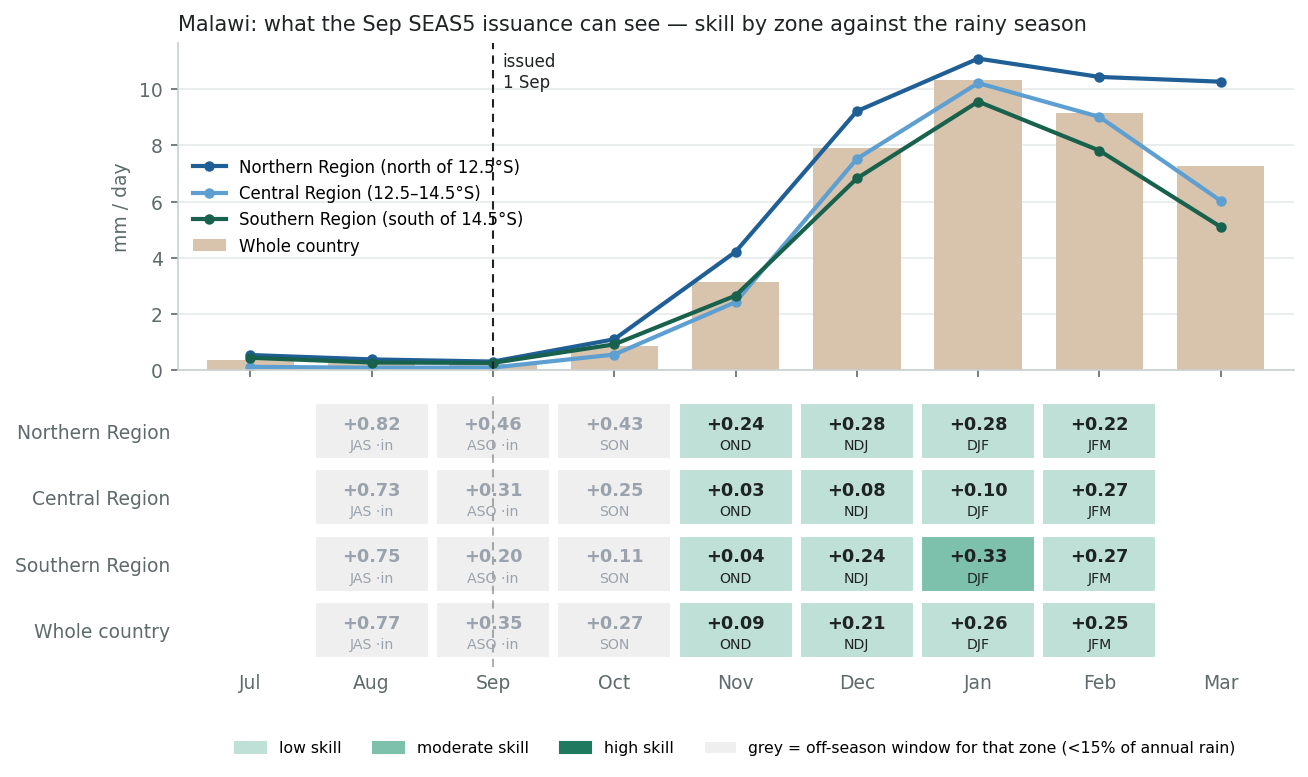
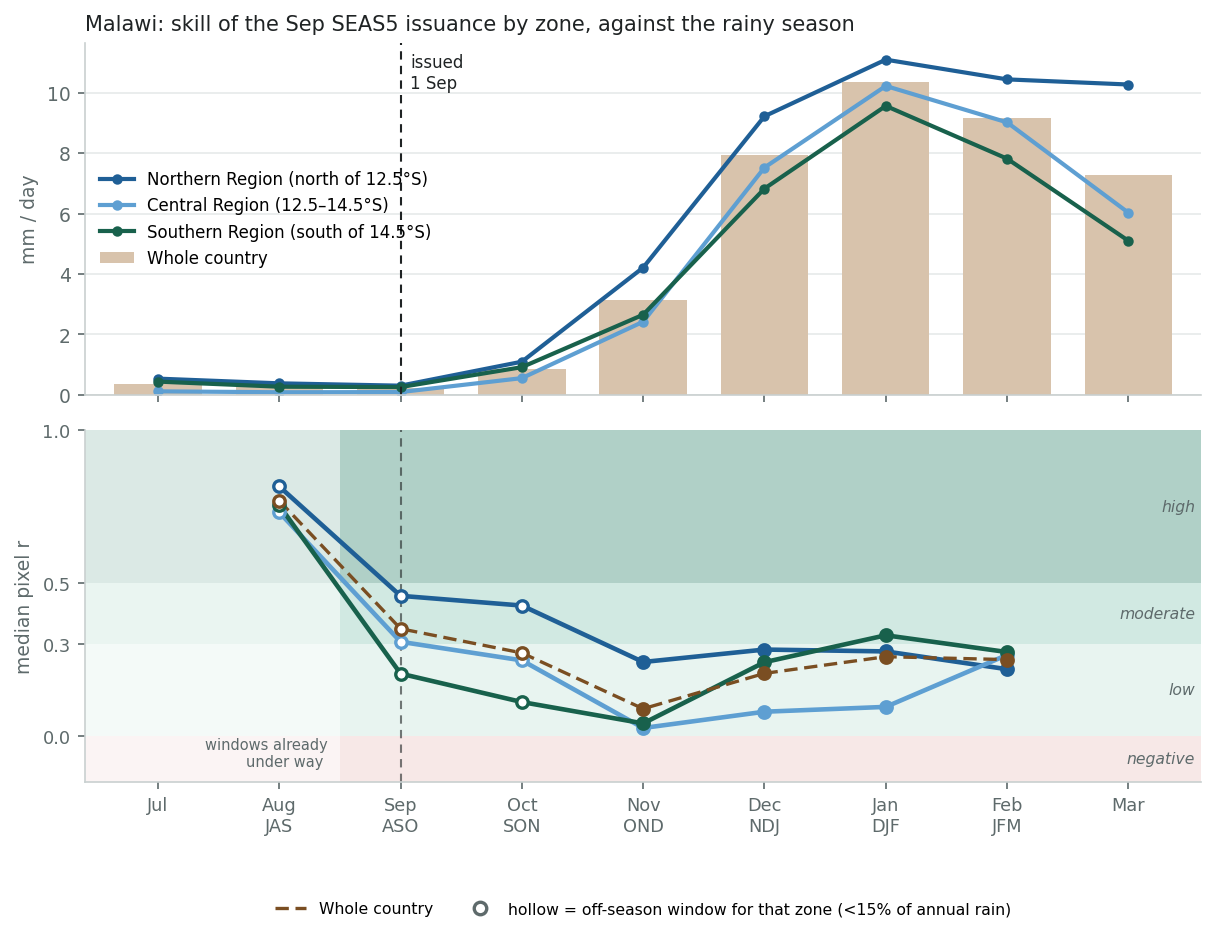
Deep dives: skill-by-zone panel as lines of median pixel r over the low/moderate/high bands

diff --git a/docs/enso/mwi/index.html b/docs/enso/mwi/index.html
@@ -131,11 +131,11 @@ a{color:var(--b6)}
 </tbody></table>
 <figure><img src="zone_history.png" alt="JFM rainfall history by zone and ENSO phase"><figcaption>Standardised JFM rainfall for each zone's area mean, coloured by concurrent ENSO phase; dashed line is the zone's own driest-third threshold. The three zones are latitude bands (north of 12.5°S, 12.5–14.5°S, south of 14.5°S), roughly the Northern, Central and Southern Regions. Note 2024: the wettest JFM on record in the north, the sixth-driest in the south.</figcaption></figure>
 <h2>Can SEAS5 forecast it? Skill of the Sep issuance, by zone</h2>
-<p>A teleconnection is only useful for anticipatory action if the seasonal forecast can carry it. The figure reads the seas5-skill app's per-pixel skill cube — the temporal Pearson r between the detrended ECMWF SEAS5 trimester forecast and detrended ERA5, per 0.4° pixel — for forecasts issued on 1 Sep, sampled at this page's cells and summarised as the median pixel r per zone. Bins are the app's (<em>low</em> &lt; 0.30 ≤ <em>moderate</em> &lt; 0.50 ≤ <em>high</em>). Each column is one three-month window the issuance covers, drawn on its middle month under the rainy-season climatology, so the reader sees which part of the season each forecast window reaches. Windows marked “·in” had already started at issuance, with the elapsed months observed rather than forecast.</p>
-<p>Read against the climatology, the September issuance is a weak instrument for Malawi's rains. The three windows that carry the season — NDJ, DJF and JFM — are all <em>low</em> skill in every zone (median pixel r 0.1–0.3, whole country 0.21–0.26), with one marginal exception: DJF in the Southern Region reaches <em>moderate</em> (0.33, 58% of cells). The Central Region is close to zero for OND through DJF. The in-season windows on the left (JAS, ASO) are high or moderate only because their months are already observed, and they are dry-season months anyway, so they are greyed out.</p>
+<p>A teleconnection is only useful for anticipatory action if the seasonal forecast can carry it. The figure reads the seas5-skill app's per-pixel skill cube — the temporal Pearson r between the detrended ECMWF SEAS5 trimester forecast and detrended ERA5, per 0.4° pixel — for forecasts issued on 1 Sep, sampled at this page's cells and summarised as the median pixel r per zone. Bins are the app's (<em>low</em> &lt; 0.30 ≤ <em>moderate</em> &lt; 0.50 ≤ <em>high</em>). Each point is one three-month window the issuance covers, drawn on its middle month under the rainy-season climatology, so the reader sees which part of the season each forecast window reaches and how much skill it has there.</p>
+<p>Read against the climatology, the September issuance is a weak instrument for Malawi's rains. The three windows that carry the season — NDJ, DJF and JFM — are all <em>low</em> skill in every zone (median pixel r 0.1–0.3, whole country 0.21–0.26), with one marginal exception: DJF in the Southern Region reaches <em>moderate</em> (0.33, 58% of cells). The Central Region is close to zero for OND through DJF. The windows on the left (JAS, ASO) score high or moderate only because their months are already observed, and they are dry-season months anyway, hence the hollow markers.</p>
 <p>The practical reading is that in September the ENSO state is the better signal for Malawi's centre and south, and the seasonal forecast adds little to it. Forecast-based action should wait for later issuances: from the same skill cube, the November issuance reaches moderate skill for FMA in the centre and south (median r 0.37–0.39, 78–90% of cells), which is also the window where the ENSO correlation peaks. The north's weaker ENSO link and low September skill argue for treating it separately, as the drought record already does.</p>
 
-<figure><img src="skill_issued.png" alt="SEAS5 skill of the Sep issuance by zone"><figcaption>Top: monthly rainfall climatology, whole country (bars) and zones (lines), from two months before the issuance to the end of the seven-month SEAS5 horizon. Bottom: median pixel skill of the Sep issuance for each trimester, per zone and for the whole country; grey cells are windows holding under 15% of that zone's annual rain (the app's off-season mask).</figcaption></figure>
+<figure><img src="skill_issued.png" alt="SEAS5 skill of the Sep issuance by zone"><figcaption>Top: monthly rainfall climatology, whole country (bars) and zones (lines), from two months before the issuance to the end of the seven-month SEAS5 horizon. Bottom: median pixel skill of the Sep issuance for each three-month window, plotted on the window's middle month, one line per zone and a dashed line for the whole country, over the app's low / moderate / high bands. Hollow markers are windows holding under 15% of that zone's annual rain (the app's off-season mask); windows left of the dashed vertical had already started at issuance, so part of them is observed rather than forecast.</figcaption></figure>
 <div style="overflow-x:auto"><table class="skill"><thead><tr><th>Zone</th><th class="num">Cells</th><th class="num">JAS<br><span class="small">in-season</span></th><th class="num">ASO<br><span class="small">in-season</span></th><th class="num">SON<br><span class="small">0-mo lead</span></th><th class="num">OND<br><span class="small">1-mo lead</span></th><th class="num">NDJ<br><span class="small">2-mo lead</span></th><th class="num">DJF<br><span class="small">3-mo lead</span></th><th class="num">JFM<br><span class="small">4-mo lead</span></th></tr></thead><tbody>
 <tr><td>Northern Region (north of 12.5°S)</td><td class="num">71</td><td class="num" style="white-space:nowrap">+0.82 <span class="chip" style="background:#1e795f;color:#ffffff;margin:0">high</span><br><span class="small">100% ≥ mod.</span></td><td class="num" style="white-space:nowrap">+0.46 <span class="chip" style="background:#7dc1ad;color:#1a1a1a;margin:0">moderate</span><br><span class="small">99% ≥ mod.</span></td><td class="num" style="white-space:nowrap">+0.43 <span class="chip" style="background:#7dc1ad;color:#1a1a1a;margin:0">moderate</span><br><span class="small">94% ≥ mod.</span></td><td class="num" style="white-space:nowrap">+0.24 <span class="chip" style="background:#bee0d6;color:#1a1a1a;margin:0">low</span><br><span class="small">38% ≥ mod.</span></td><td class="num" style="white-space:nowrap">+0.28 <span class="chip" style="background:#bee0d6;color:#1a1a1a;margin:0">low</span><br><span class="small">41% ≥ mod.</span></td><td class="num" style="white-space:nowrap">+0.28 <span class="chip" style="background:#bee0d6;color:#1a1a1a;margin:0">low</span><br><span class="small">41% ≥ mod.</span></td><td class="num" style="white-space:nowrap">+0.22 <span class="chip" style="background:#bee0d6;color:#1a1a1a;margin:0">low</span><br><span class="small">23% ≥ mod.</span></td></tr>
 <tr><td>Central Region (12.5–14.5°S)</td><td class="num">68</td><td class="num" style="white-space:nowrap">+0.73 <span class="chip" style="background:#1e795f;color:#ffffff;margin:0">high</span><br><span class="small">100% ≥ mod.</span></td><td class="num" style="white-space:nowrap">+0.31 <span class="chip" style="background:#7dc1ad;color:#1a1a1a;margin:0">moderate</span><br><span class="small">50% ≥ mod.</span></td><td class="num" style="white-space:nowrap">+0.25 <span class="chip" style="background:#bee0d6;color:#1a1a1a;margin:0">low</span><br><span class="small">26% ≥ mod.</span></td><td class="num" style="white-space:nowrap">+0.03 <span class="chip" style="background:#bee0d6;color:#1a1a1a;margin:0">low</span><br><span class="small">0% ≥ mod.</span></td><td class="num" style="white-space:nowrap">+0.08 <span class="chip" style="background:#bee0d6;color:#1a1a1a;margin:0">low</span><br><span class="small">0% ≥ mod.</span></td><td class="num" style="white-space:nowrap">+0.10 <span class="chip" style="background:#bee0d6;color:#1a1a1a;margin:0">low</span><br><span class="small">1% ≥ mod.</span></td><td class="num" style="white-space:nowrap">+0.27 <span class="chip" style="background:#bee0d6;color:#1a1a1a;margin:0">low</span><br><span class="small">32% ≥ mod.</span></td></tr>

diff --git a/docs/enso/eri/index.html b/docs/enso/eri/index.html
@@ -125,9 +125,9 @@ a{color:var(--b6)}
 <tr><td>Drier margin (JAS 0.25–2 mm/day)</td><td class="num">82</td><td class="num">−0.40</td><td class="num">−0.57</td><td class="num">67%</td><td class="num">67%</td></tr>
 </tbody></table>
 <h2>Can SEAS5 forecast it? Skill of the Jun issuance, by zone</h2>
-<p>A teleconnection is only useful for anticipatory action if the seasonal forecast can carry it. The figure reads the seas5-skill app's per-pixel skill cube — the temporal Pearson r between the detrended ECMWF SEAS5 trimester forecast and detrended ERA5, per 0.4° pixel — for forecasts issued on 1 Jun, sampled at this page's cells and summarised as the median pixel r per zone. Bins are the app's (<em>low</em> &lt; 0.30 ≤ <em>moderate</em> &lt; 0.50 ≤ <em>high</em>). Each column is one three-month window the issuance covers, drawn on its middle month under the rainy-season climatology, so the reader sees which part of the season each forecast window reaches. Windows marked “·in” had already started at issuance, with the elapsed months observed rather than forecast.</p>
+<p>A teleconnection is only useful for anticipatory action if the seasonal forecast can carry it. The figure reads the seas5-skill app's per-pixel skill cube — the temporal Pearson r between the detrended ECMWF SEAS5 trimester forecast and detrended ERA5, per 0.4° pixel — for forecasts issued on 1 Jun, sampled at this page's cells and summarised as the median pixel r per zone. Bins are the app's (<em>low</em> &lt; 0.30 ≤ <em>moderate</em> &lt; 0.50 ≤ <em>high</em>). Each point is one three-month window the issuance covers, drawn on its middle month under the rainy-season climatology, so the reader sees which part of the season each forecast window reaches and how much skill it has there.</p>
 
-<figure><img src="skill_issued.png" alt="SEAS5 skill of the Jun issuance by zone"><figcaption>Top: monthly rainfall climatology, whole country (bars) and zones (lines), from two months before the issuance to the end of the seven-month SEAS5 horizon. Bottom: median pixel skill of the Jun issuance for each trimester, per zone and for the whole country; grey cells are windows holding under 15% of that zone's annual rain (the app's off-season mask).</figcaption></figure>
+<figure><img src="skill_issued.png" alt="SEAS5 skill of the Jun issuance by zone"><figcaption>Top: monthly rainfall climatology, whole country (bars) and zones (lines), from two months before the issuance to the end of the seven-month SEAS5 horizon. Bottom: median pixel skill of the Jun issuance for each three-month window, plotted on the window's middle month, one line per zone and a dashed line for the whole country, over the app's low / moderate / high bands. Hollow markers are windows holding under 15% of that zone's annual rain (the app's off-season mask); windows left of the dashed vertical had already started at issuance, so part of them is observed rather than forecast.</figcaption></figure>
 <div style="overflow-x:auto"><table class="skill"><thead><tr><th>Zone</th><th class="num">Cells</th><th class="num">AMJ<br><span class="small">in-season</span></th><th class="num">MJJ<br><span class="small">in-season</span></th><th class="num">JJA<br><span class="small">0-mo lead</span></th><th class="num">JAS<br><span class="small">1-mo lead</span></th><th class="num">ASO<br><span class="small">2-mo lead</span></th><th class="num">SON<br><span class="small">3-mo lead</span></th><th class="num">OND<br><span class="small">4-mo lead</span></th></tr></thead><tbody>
 <tr><td>Highlands &amp; west (JAS ≥ 2 mm/day)</td><td class="num">79</td><td class="num" style="white-space:nowrap">+0.72 <span class="chip" style="background:#1e795f;color:#ffffff;margin:0">high</span><br><span class="small">100% ≥ mod.</span></td><td class="num" style="white-space:nowrap">+0.34 <span class="chip" style="background:#7dc1ad;color:#1a1a1a;margin:0">moderate</span><br><span class="small">62% ≥ mod.</span></td><td class="num" style="white-space:nowrap">+0.29 <span class="chip" style="background:#bee0d6;color:#1a1a1a;margin:0">low</span><br><span class="small">35% ≥ mod.</span></td><td class="num" style="white-space:nowrap">+0.31 <span class="chip" style="background:#7dc1ad;color:#1a1a1a;margin:0">moderate</span><br><span class="small">66% ≥ mod.</span></td><td class="num" style="white-space:nowrap">+0.21 <span class="chip" style="background:#bee0d6;color:#1a1a1a;margin:0">low</span><br><span class="small">8% ≥ mod.</span></td><td class="num" style="white-space:nowrap">+0.19 <span class="chip" style="background:#bee0d6;color:#1a1a1a;margin:0">low</span><br><span class="small">16% ≥ mod.</span></td><td class="num" style="white-space:nowrap">+0.16 <span class="chip" style="background:#bee0d6;color:#1a1a1a;margin:0">low</span><br><span class="small">38% ≥ mod.</span></td></tr>
 <tr><td>Drier margin (JAS 0.25–2 mm/day)</td><td class="num">82</td><td class="num" style="white-space:nowrap">+0.91 <span class="chip" style="background:#1e795f;color:#ffffff;margin:0">high</span><br><span class="small">100% ≥ mod.</span></td><td class="num" style="white-space:nowrap">+0.44 <span class="chip" style="background:#7dc1ad;color:#1a1a1a;margin:0">moderate</span><br><span class="small">55% ≥ mod.</span></td><td class="num" style="white-space:nowrap">+0.30 <span class="chip" style="background:#7dc1ad;color:#1a1a1a;margin:0">moderate</span><br><span class="small">50% ≥ mod.</span></td><td class="num" style="white-space:nowrap">+0.29 <span class="chip" style="background:#bee0d6;color:#1a1a1a;margin:0">low</span><br><span class="small">48% ≥ mod.</span></td><td class="num" style="white-space:nowrap">+0.14 <span class="chip" style="background:#bee0d6;color:#1a1a1a;margin:0">low</span><br><span class="small">26% ≥ mod.</span></td><td class="num" style="white-space:nowrap">+0.12 <span class="chip" style="background:#bee0d6;color:#1a1a1a;margin:0">low</span><br><span class="small">5% ≥ mod.</span></td><td class="num" style="white-space:nowrap">+0.20 <span class="chip" style="background:#bee0d6;color:#1a1a1a;margin:0">low</span><br><span class="small">27% ≥ mod.</span></td></tr>

diff --git a/enso_deep_dive.py b/enso_deep_dive.py
@@ -433,8 +433,8 @@ def fig_skill_issued(c: Country, grid: Grid, zones: dict[str, np.ndarray], skill
                          for m in range(1, 13)])
 
     n = len(rows)
-    fig, (ax, hx) = plt.subplots(2, 1, figsize=(9.6, 3.2 + 0.55 * n), dpi=150, sharex=True,
-                                 gridspec_kw=dict(height_ratios=[3.0, 0.55 * n + 0.3], hspace=0.08))
+    fig, (ax, hx) = plt.subplots(2, 1, figsize=(9.6, 6.4), dpi=150, sharex=True,
+                                 gridspec_kw=dict(height_ratios=[2.6, 2.6], hspace=0.1))
     # --- top: climatology
     clim_all = monthly(c.mask)
     ax.bar(range(9), clim_all[[m - 1 for m in months]], color="#D8C3AC", width=0.72, label="Whole country")
@@ -446,42 +446,52 @@ def fig_skill_issued(c: Country, grid: Grid, zones: dict[str, np.ndarray], skill
     ax.text(xpos[im] + 0.08, ax.get_ylim()[1] * 0.97, f"issued\n1 {MONTH_NAMES[im - 1]}", fontsize=8, color=C_TEXT, va="top")
     ax.set_ylabel("mm / day", fontsize=9, color=C_MUTED)
     ax.legend(frameon=False, fontsize=8, loc="best", ncol=1)
-    ax.set_title(f"{name}: what the {MONTH_NAMES[im - 1]} SEAS5 issuance can see — skill by zone against the rainy season",
+    ax.set_title(f"{name}: skill of the {MONTH_NAMES[im - 1]} SEAS5 issuance by zone, against the rainy season",
                  fontsize=10, color=C_TEXT, loc="left")
     _style_ax(ax)
-    # --- bottom: heatmap, one row per zone, one column per trimester on its middle month
-    zone_annual = {lbl: z.sum() for lbl, z in zone_clim.items()}
-    zone_annual["__all__"] = clim_all.sum()
-    for i, row in enumerate(rows):
-        y = n - 1 - i
-        z = zone_clim.get(row["zone"], clim_all)
-        annual = z.sum()
-        for t in tris:
-            r = row["r"].get(t["code"], np.nan)
-            cat = skill_cat(r)
-            mid = ((t["start"]) % 12) + 1        # middle month of the trimester
-            x = xpos.get(mid)
-            if x is None or cat == "—":
+    # --- bottom: median pixel skill per zone as lines over the trimester middle months, on the
+    # app's low / moderate / high bands. Hollow markers = window is off-season for that zone.
+    zone_cols = dict(zip(zones.keys(), ["#1F5F96", "#5E9FD2", "#18614c", "#8a4f7d"]))
+    lo, hi = SKILL_THRESH["r_mod"], SKILL_THRESH["r_high"]
+    ymin, ymax = -0.15, 1.0
+    hx.axhspan(ymin, 0, color="#f3dad7", alpha=0.6, lw=0)
+    hx.axhspan(0, lo, color=SKILL_CATS["low"], alpha=0.35, lw=0)
+    hx.axhspan(lo, hi, color=SKILL_CATS["moderate"], alpha=0.35, lw=0)
+    hx.axhspan(hi, ymax, color=SKILL_CATS["high"], alpha=0.35, lw=0)
+    for yv, lbl in ((ymin + 0) / 2, "negative"), (lo / 2, "low"), ((lo + hi) / 2, "moderate"), ((hi + ymax) / 2, "high"):
+        hx.text(8.55, yv, lbl, fontsize=7.5, color=C_MUTED, ha="right", va="center", style="italic")
+    # already-observed windows sit left of the issuance
+    hx.axvspan(-0.6, xpos[im] - 0.5, color="#ffffff", alpha=0.55, lw=0)
+    hx.text(xpos[im] - 0.6, ymin + 0.04, "windows already\nunder way ", fontsize=7, color=C_MUTED, ha="right", va="bottom")
+    xs = [xpos.get(((t["start"]) % 12) + 1) for t in tris]
+    for row in rows:
+        lbl = row["zone"]
+        z = zone_clim.get(lbl, clim_all); annual = z.sum()
+        ys = [row["r"].get(t["code"], np.nan) for t in tris]
+        col = zone_cols.get(lbl, "#7A4E22")
+        is_all = lbl not in zone_cols
+        hx.plot(xs, ys, color=col, lw=2.2 if not is_all else 1.6, ls="-" if not is_all else (0, (4, 2)), zorder=3)
+        for t, x, yv in zip(tris, xs, ys):
+            if x is None or np.isnan(yv):
                 continue
             share = z[[((t["start"] - 1 + k) % 12) for k in range(3)]].sum() / annual if annual > 0 else 0
             on = share >= off_share
-            hx.add_patch(plt.Rectangle((x - 0.47, y - 0.42), 0.94, 0.84, facecolor=SKILL_CATS[cat] if on else "#efefef",
-                                       edgecolor="white", lw=1))
-            fg = "#ffffff" if (cat == "high" and on) else (C_TEXT if on else "#9aa3ad")
-            hx.text(x, y + 0.1, f"{r:+.2f}", ha="center", va="center", fontsize=8.5, color=fg, fontweight="bold")
-            hx.text(x, y - 0.22, f"{t['code']}" + (" ·in" if t["lead"] < 0 else ""), ha="center", va="center",
-                    fontsize=6.8, color=fg)
-    hx.set_ylim(-0.55, n - 0.45); hx.set_yticks(range(n))
-    short = [r["zone"].split(" (")[0] for r in rows][::-1]
-    hx.set_yticklabels(short, fontsize=8.5, color=C_TEXT)
-    hx.set_xlim(-0.6, 8.6); hx.set_xticks(range(9)); hx.set_xticklabels([MONTH_NAMES[m - 1] for m in months])
-    hx.axvline(xpos[im], color=C_TEXT, lw=1, ls=(0, (4, 3)), alpha=0.35)
-    hx.tick_params(colors=C_MUTED, labelsize=9, length=0)
-    for sp in hx.spines.values():
-        sp.set_visible(False)
-    hx.legend(handles=[Patch(color=SKILL_CATS[k], label=f"{k} skill") for k in ("low", "moderate", "high")]
-              + [Patch(facecolor="#efefef", label="grey = off-season window for that zone (<15% of annual rain)")],
-              frameon=False, fontsize=7.5, loc="upper center", bbox_to_anchor=(0.5, -0.22), ncol=4)
+            hx.plot([x], [yv], marker="o", ms=5.5, color=col, mfc=col if on else "white", mew=1.6, zorder=4)
+    hx.set_ylim(ymin, ymax); hx.set_yticks([0, lo, hi, 1.0])
+    hx.set_ylabel("median pixel r", fontsize=9, color=C_MUTED)
+    hx.set_xlim(-0.6, 8.6); hx.set_xticks(range(9))
+    code_at = {xpos.get(((t["start"]) % 12) + 1): t["code"] for t in tris}
+    hx.set_xticklabels([MONTH_NAMES[m - 1] + (f"\n{code_at[k]}" if k in code_at else "") for k, m in enumerate(months)])
+    hx.axvline(xpos[im], color=C_TEXT, lw=1, ls=(0, (4, 3)), alpha=0.6)
+    hx.tick_params(colors=C_MUTED, labelsize=8.5)
+    hx.yaxis.grid(False)
+    for sp in ("top", "right"):
+        hx.spines[sp].set_visible(False)
+    for sp in ("left", "bottom"):
+        hx.spines[sp].set_color("#c9d0d0")
+    hx.legend(handles=[plt.Line2D([], [], color="#7A4E22", ls=(0, (4, 2)), lw=1.6, label="Whole country"),
+                       plt.Line2D([], [], color=C_MUTED, marker="o", mfc="white", ls="", mew=1.6, label="hollow = off-season window for that zone (<15% of annual rain)")],
+              frameon=False, fontsize=7.5, loc="upper center", bbox_to_anchor=(0.5, -0.3), ncol=2)
     fig.savefig(out, bbox_inches="tight"); plt.close(fig)
 
 
@@ -851,15 +861,16 @@ def render_skill(spec: dict, a: dict, head: str) -> str:
                f'detrended ECMWF SEAS5 trimester forecast and detrended ERA5, per 0.4° pixel — for forecasts issued on '
                f'1 {mon}, sampled at this page\'s cells and summarised as the median pixel r per zone. Bins are the app\'s '
                f'(<em>low</em> &lt; {SKILL_THRESH["r_mod"]:.2f} ≤ <em>moderate</em> &lt; {SKILL_THRESH["r_high"]:.2f} ≤ <em>high</em>). '
-               f'Each column is one three-month window the issuance covers, drawn on its middle month under the rainy-season '
-               f'climatology, so the reader sees which part of the season each forecast window reaches. Windows marked '
-               f'“·in” had already started at issuance, with the elapsed months observed rather than forecast.</p>')
+               f'Each point is one three-month window the issuance covers, drawn on its middle month under the rainy-season '
+               f'climatology, so the reader sees which part of the season each forecast window reaches and how much skill it has there.</p>')
     out.append(spec.get("skill_html", ""))
     out.append(f'<figure><img src="skill_issued.png" alt="SEAS5 skill of the {mon} issuance by zone"><figcaption>Top: '
                f'monthly rainfall climatology, whole country (bars) and zones (lines), from two months before the issuance '
                f'to the end of the seven-month SEAS5 horizon. Bottom: median pixel skill of the {mon} issuance for each '
-               f'trimester, per zone and for the whole country; grey cells are windows holding under 15% of that zone\'s '
-               f'annual rain (the app\'s off-season mask).</figcaption></figure>')
+               f'three-month window, plotted on the window\'s middle month, one line per zone and a dashed line for the '
+               f'whole country, over the app\'s low / moderate / high bands. Hollow markers are windows holding under 15% '
+               f'of that zone\'s annual rain (the app\'s off-season mask); windows left of the dashed vertical had '
+               f'already started at issuance, so part of them is observed rather than forecast.</figcaption></figure>')
     # compact table of the same numbers, with the share of cells at moderate-or-better
     tris = sk["trimesters"]
     out.append('<div style="overflow-x:auto"><table class="skill"><thead><tr><th>Zone</th><th class="num">Cells</th>'
